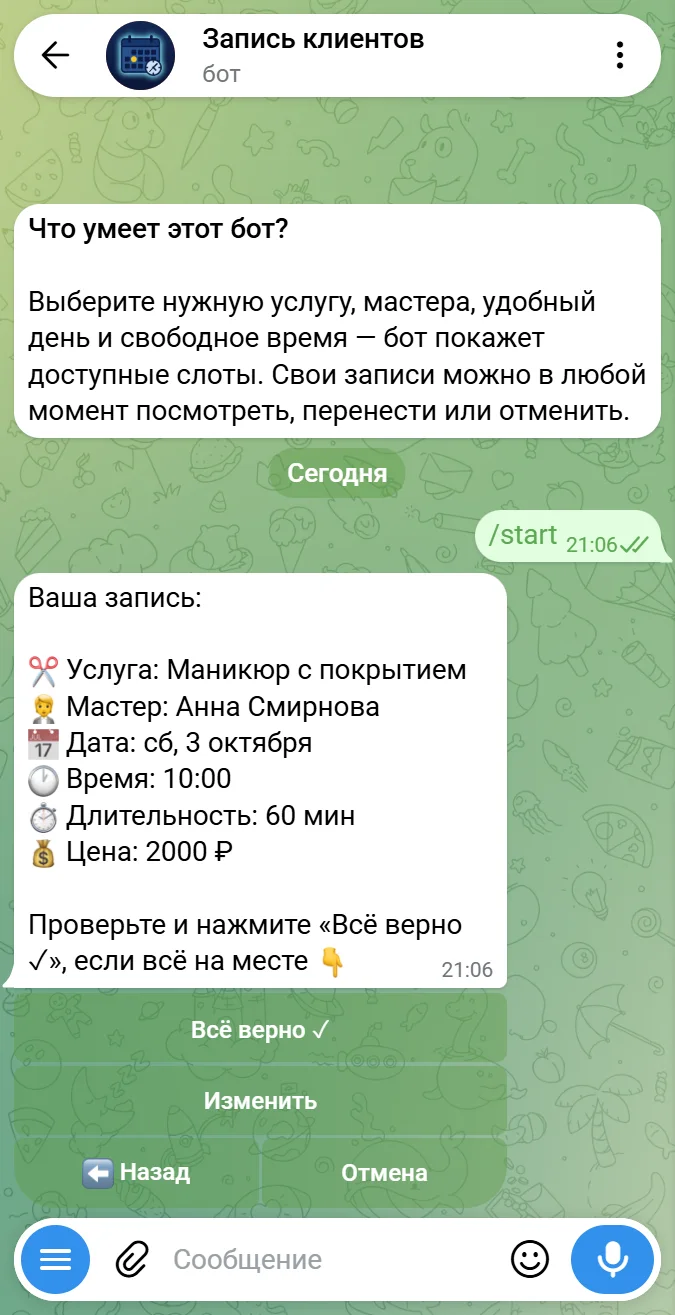
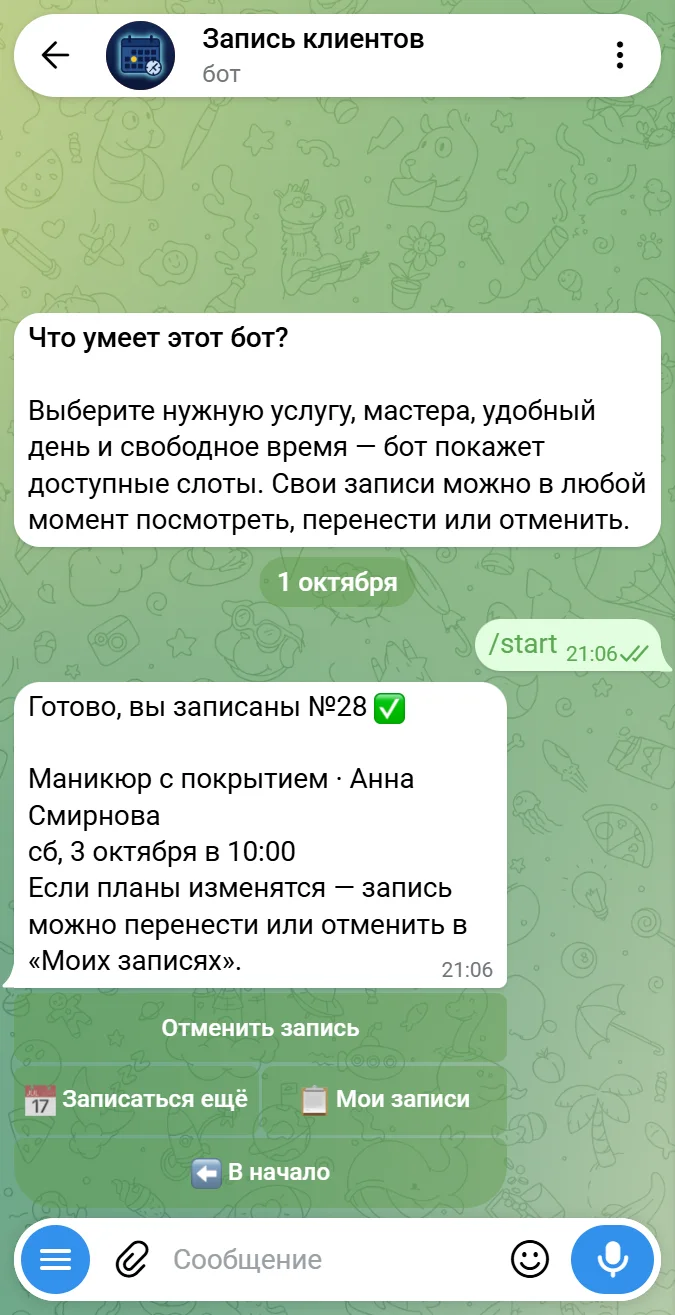
Кадры записи и магазина — итоговые экраны; подпись каталога по показанному

Changed region(s): [[0.0, 0.1559, 0.9956, 0.7483], [0.0311, 0.7795, 0.6844, 0.9042]]

diff --git a/index.html b/index.html
@@ -51,7 +51,7 @@
 <article class="работа работа-бот" data-case-id="12" data-bot-card="zayavki"><div class="работа-медиа"><figure><img src="кадры/zayavki.webp" width="675" height="1315" alt="Бот приёма заявок в чате Telegram" loading="lazy"></figure></div><div class="работа-текст"><p class="работа-мета"><span class="работа-номер">01</span><span>Telegram</span></p><h3>Бот приёма заявок</h3><p class="работа-описание">Клиент пишет в Telegram — бот спрашивает имя, телефон, задачу и фото.</p><p class="работа-описание">Вы получаете готовую заявку с контактом и описанием.</p><a class="кнопка кнопка-светлая" href="https://t.me/PartialisZayavkiDemoBot" target="_blank" rel="noopener">Открыть бота <span class="кнопка-стрелка" aria-hidden="true">↗</span></a></div></article>
 <article class="работа работа-бот" data-case-id="12" data-bot-card="zapis"><div class="работа-медиа"><figure><img src="кадры/zapis.webp" width="675" height="1315" alt="Бот записи на услугу в чате Telegram" loading="lazy"></figure></div><div class="работа-текст"><p class="работа-мета"><span class="работа-номер">02</span><span>Telegram</span></p><h3>Бот записи на услугу</h3><p class="работа-описание">Клиент выбирает услугу, мастера, дату и время прямо в чате.</p><p class="работа-описание">Вы видите подтверждённую запись со всеми деталями.</p><a class="кнопка кнопка-светлая" href="https://t.me/PartialisZapisDemoBot" target="_blank" rel="noopener">Открыть бота <span class="кнопка-стрелка" aria-hidden="true">↗</span></a></div></article>
 <article class="работа работа-бот" data-case-id="12" data-bot-card="magazin"><div class="работа-медиа"><figure><img src="кадры/magazin.webp" width="675" height="1315" alt="Бот-магазин в чате Telegram" loading="lazy"></figure></div><div class="работа-текст"><p class="работа-мета"><span class="работа-номер">03</span><span>Telegram</span></p><h3>Бот-магазин</h3><p class="работа-описание">Клиент листает товары, собирает корзину и оформляет заказ в Telegram.</p><p class="работа-описание">Вы получаете заказ с позициями и количеством.</p><a class="кнопка кнопка-светлая" href="https://t.me/PartialisMagazinDemoBot" target="_blank" rel="noopener">Открыть бота <span class="кнопка-стрелка" aria-hidden="true">↗</span></a></div></article>
-<article class="работа работа-каталог" data-case-id="4"><div class="работа-текст"><p class="работа-мета"><span class="работа-номер">04</span><span>Таблица товаров</span></p><h3>Сбор карточек каталога</h3><p class="работа-описание">Таблица товаров книжного каталога: название, цена, наличие и ссылка на каждую позицию.</p></div><div class="работа-медиа"><figure><img src="снимки/каталог_пример.jpg" width="1280" height="552" alt="Таблица с карточками каталога товаров." loading="lazy"></figure></div></article>
+<article class="работа работа-каталог" data-case-id="4"><div class="работа-текст"><p class="работа-мета"><span class="работа-номер">04</span><span>Таблица товаров</span></p><h3>Сбор карточек каталога</h3><p class="работа-описание">Таблица товаров зарубежного книжного каталога: название и цена каждой позиции.</p></div><div class="работа-медиа"><figure><img src="снимки/каталог_пример.jpg" width="1280" height="552" alt="Таблица с карточками каталога товаров." loading="lazy"></figure></div></article>
 <!-- ТЕКСТ:работы:конец -->
       </div>
     </section>
